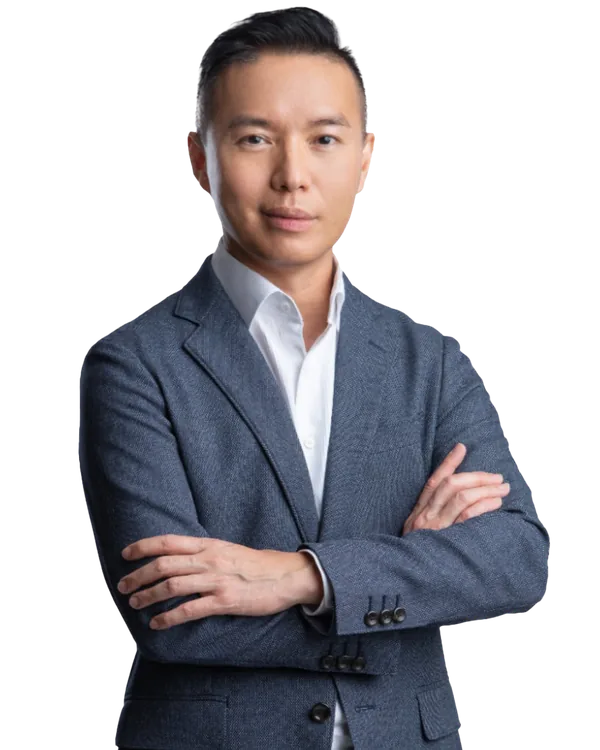
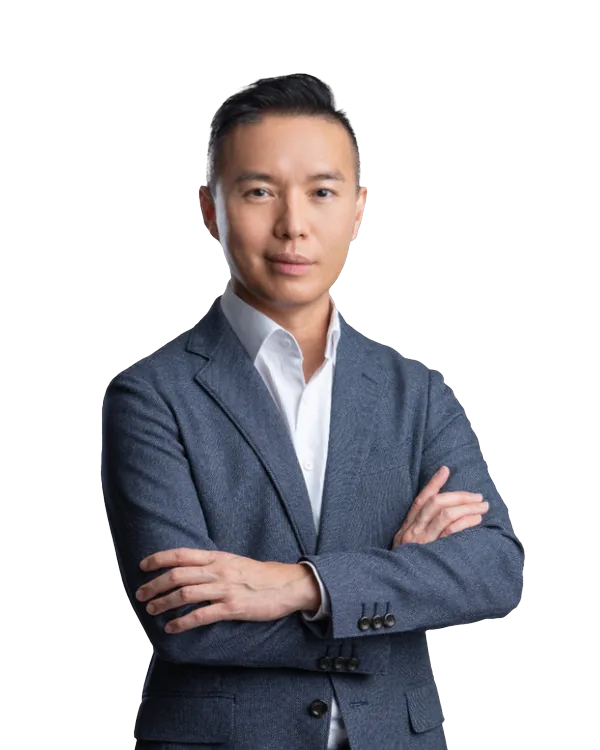
Doctor portraits: add headroom and align head height
Claude-Session: https://claude.ai/code/session_01SHF6H7iaHNqRYURWuJDFx5

Changed region(s): [[0.12, 0.0, 0.93, 1.0]]

diff --git a/src/assets/css/style.css b/src/assets/css/style.css
@@ -195,7 +195,7 @@ ul,ol{margin:0;padding:0;list-style:none}
 .scroller::-webkit-scrollbar{display:none}
 .doc{margin:0;scroll-snap-align:start}
 .doc__photo{border-radius:24px;overflow:hidden;background:var(--tint);aspect-ratio:4/5}
-.doc__photo img{width:100%;height:100%;object-fit:cover;transition:transform .8s var(--ease)}
+.doc__photo img{width:100%;height:100%;object-fit:cover;object-position:top center;transition:transform .8s var(--ease)}
 .doc:hover .doc__photo img{transform:scale(1.04)}
 .doc figcaption{padding:16px 4px 0}
 .doc strong{display:block;font:700 19px/1.2 var(--head);letter-spacing:-.01em}
